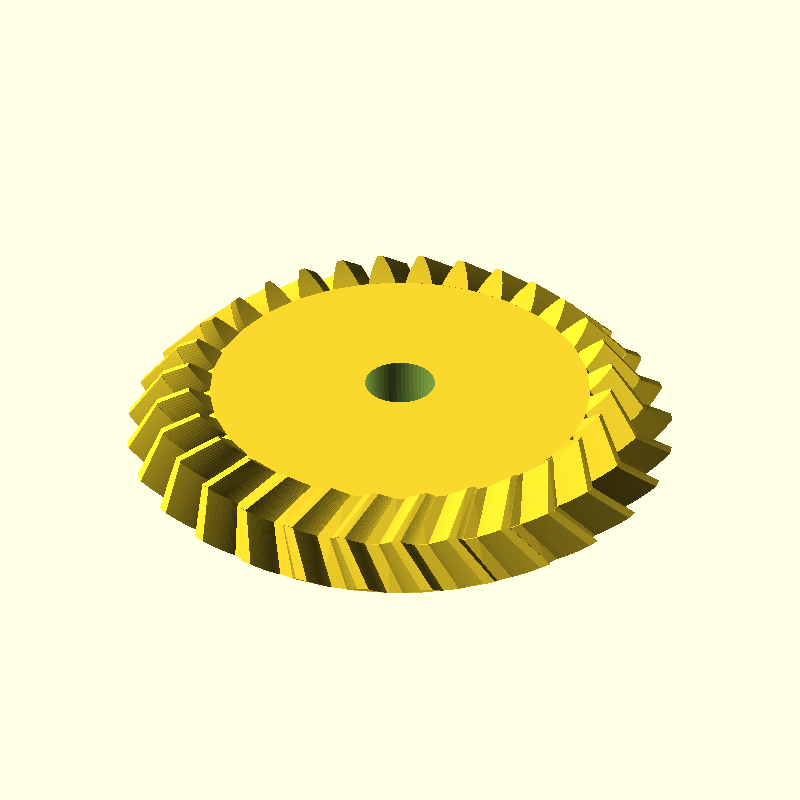
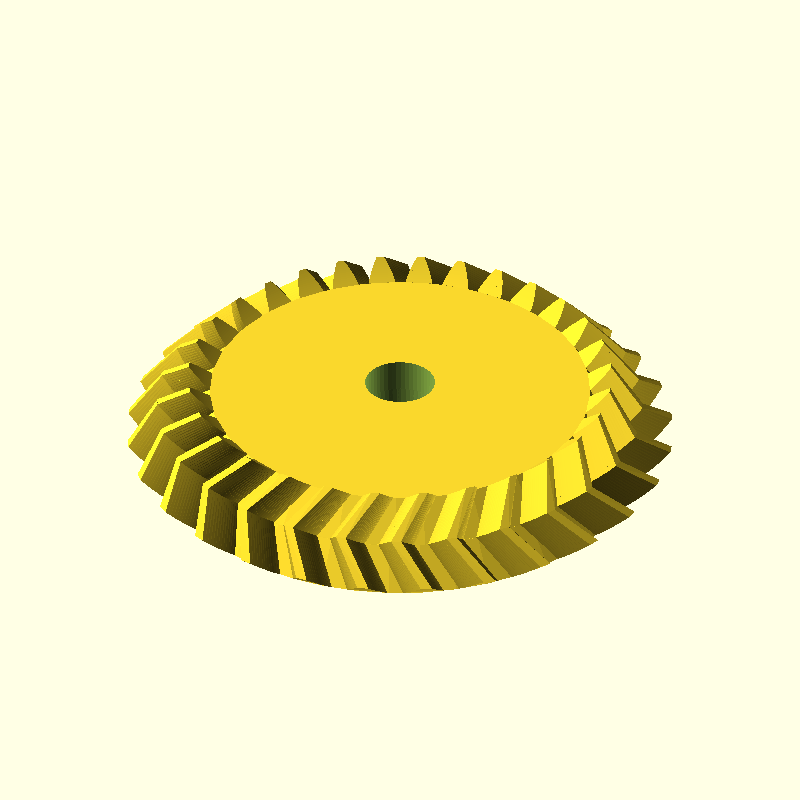
Fix herringbone bevel gear ring alignment
The two rings of bevel_herringbone_gear did not line up where they meet:

- bevel_gear picks a larger tip height for modul < 1, and the scaled
  module of the inner ring could fall below 1 while the outer ring's did
  not. bevel_gear now takes an optional addendum_factor and the
  herringbone passes the same value to both rings.
- Removed the 1 degree cone angle offset on the outer ring that was
  compensating for that mismatch.
- The inner ring is now raised by tooth_width*cos(delta_f), which puts
  its cone apex exactly on the apex of the outer ring, and the root cone
  is filled in between the two truncated cones.

Fixes #29

diff --git a/tests/test_bevel_herringbone.py b/tests/test_bevel_herringbone.py
@@ -1,0 +1,99 @@
+import math
+import re
+import shutil
+import subprocess
+import tempfile
+import unittest
+from pathlib import Path
+
+
+MODUL = 1
+TOOTH_NUMBER = 30
+PARTIAL_CONE_ANGLE = 45
+TOOTH_WIDTH = 5
+
+BEVEL_HERRINGBONE_SCAD_SNIPPET = f"""\
+include <gears.scad>
+bevel_herringbone_gear(modul={MODUL}, tooth_number={TOOTH_NUMBER}, partial_cone_angle={PARTIAL_CONE_ANGLE},
+                       tooth_width={TOOTH_WIDTH}, bore=4, pressure_angle=20, helix_angle=30);
+"""
+
+
+class BevelHerringboneAlignmentTest(unittest.TestCase):
+    """Regression test for https://github.com/chrisspen/gears/issues/29."""
+
+    def setUp(self) -> None:
+        if shutil.which("openscad-nightly") is None:
+            self.skipTest("openscad-nightly is required for this test")
+
+    def test_rings_share_cone_apex(self) -> None:
+        """
+        Both rings of the herringbone are built on spheres around the cone apex,
+        so the teeth of the inner ring must end on the same sphere on which the
+        teeth of the outer ring end. A misplaced inner ring pokes through it.
+        """
+        cone_angle = math.radians(PARTIAL_CONE_ANGLE)
+        r_outside = MODUL * TOOTH_NUMBER / 2
+        rg_outside = r_outside / math.sin(cone_angle)
+        rf_outside = r_outside - (MODUL + MODUL / 6) * math.cos(cone_angle)
+        delta_f = math.asin(rf_outside / rg_outside)
+        height_f = rg_outside * math.cos(delta_f)
+        rg_seam = rg_outside - TOOTH_WIDTH / 2
+
+        overshoot = 0.0
+        seam_vertices = 0
+        for x, y, z in self._render_vertices():
+            dz = height_f - z
+            distance = math.sqrt(x * x + y * y + dz * dz)
+            # Only look at the teeth, which lie above the root cone.
+            if math.acos(dz / distance) < delta_f + math.radians(0.2):
+                continue
+            if abs(distance - rg_seam) < 0.05:
+                seam_vertices += 1
+                overshoot = max(overshoot, distance - rg_seam)
+
+        self.assertGreater(seam_vertices, 0, "Expected tooth vertices where the two rings meet")
+        self.assertLess(
+            overshoot,
+            1e-3,
+            f"Inner ring is offset from the outer ring by {overshoot:.4f} where they meet",
+        )
+
+    @staticmethod
+    def _render_vertices() -> set:
+        tests_dir = Path(__file__).resolve().parent
+        repo_root = tests_dir.parent
+        scad_source = repo_root / "gears.scad"
+
+        with tempfile.TemporaryDirectory(dir=repo_root) as tmp_dir:
+            tmp_path = Path(tmp_dir)
+            scad_path = tmp_path / "bevel_herringbone.scad"
+            stl_path = tmp_path / "bevel_herringbone.stl"
+
+            scad_path.write_text(BEVEL_HERRINGBONE_SCAD_SNIPPET)
+            shutil.copy(scad_source, tmp_path / "gears.scad")
+
+            cmd = [
+                "openscad-nightly",
+                str(scad_path),
+                "--backend=manifold",
+                "--export-format",
+                "asciistl",
+                "-o",
+                str(stl_path),
+            ]
+            try:
+                subprocess.run(cmd, check=True, capture_output=True)
+            except subprocess.CalledProcessError as exc:  # pragma: no cover - diagnostic aid
+                raise AssertionError(
+                    f"openscad-nightly failed with code {exc.returncode}\n"
+                    f"stdout: {exc.stdout.decode()}\n"
+                    f"stderr: {exc.stderr.decode()}"
+                ) from exc
+
+            vertices = re.findall(r"vertex\s+(\S+)\s+(\S+)\s+(\S+)", stl_path.read_text())
+            return {tuple(float(value) for value in vertex) for vertex in vertices}
+
+
+if __name__ == "__main__":
+    unittest.main()
